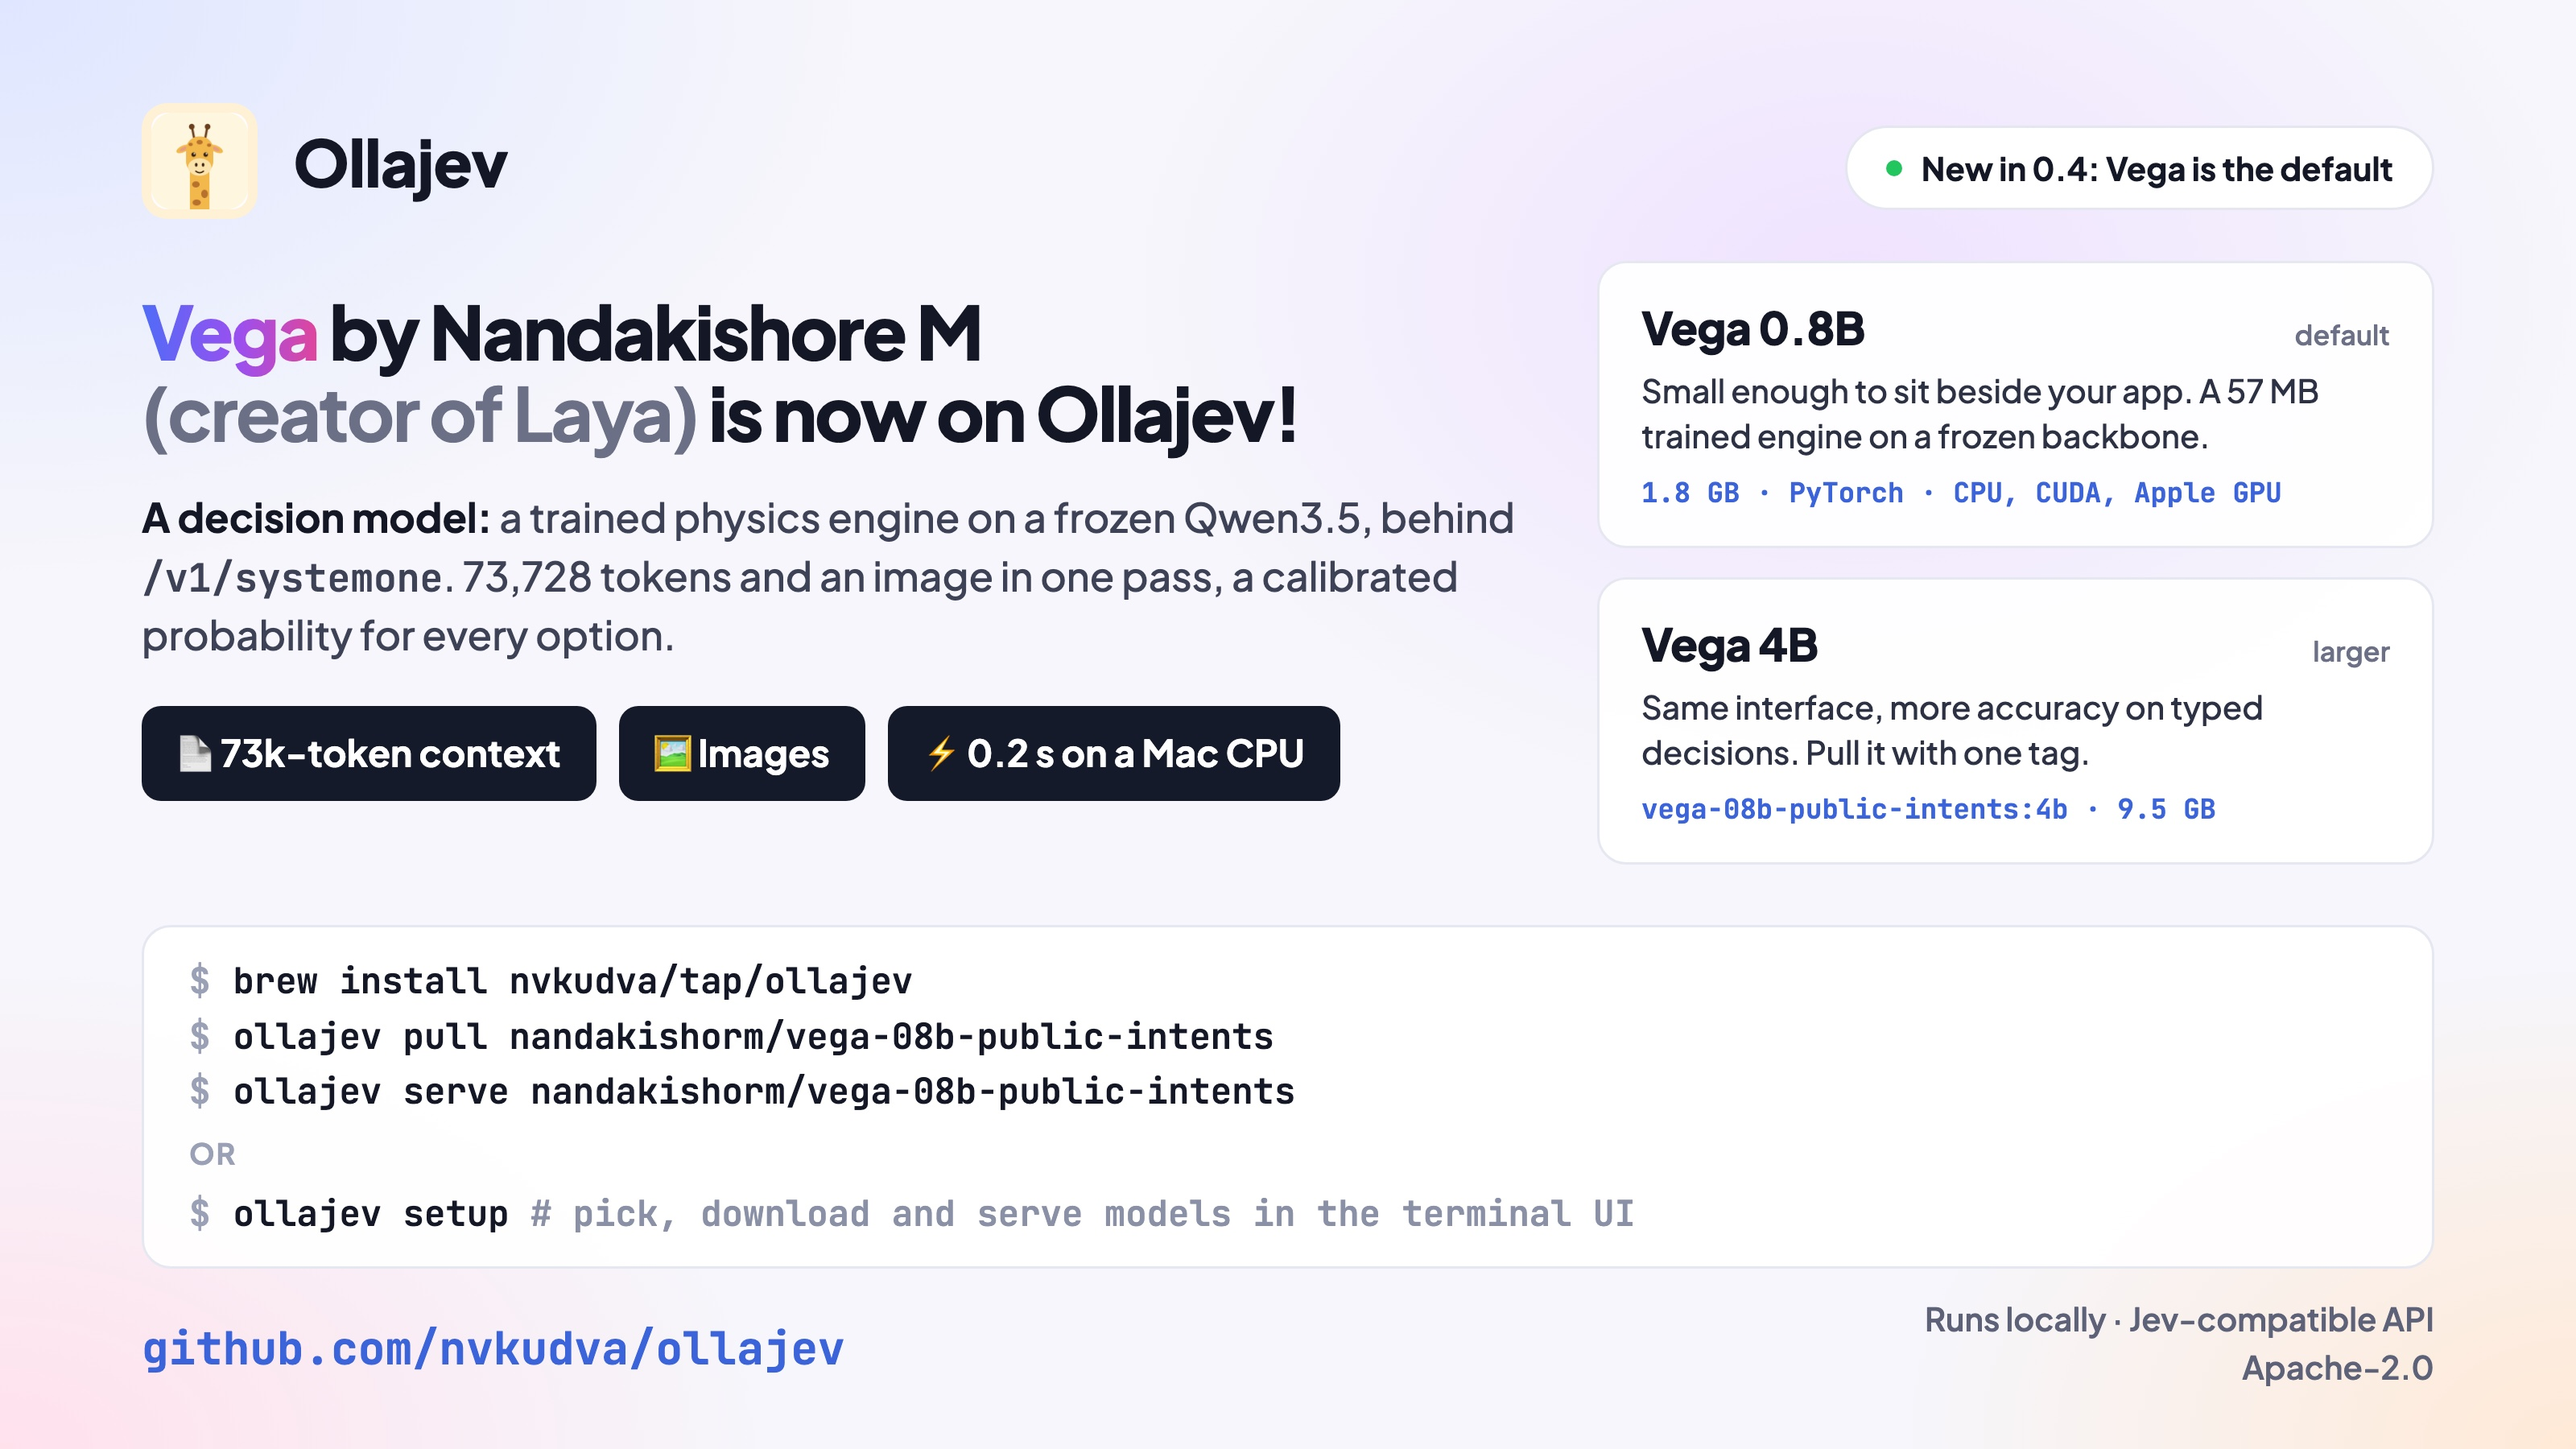
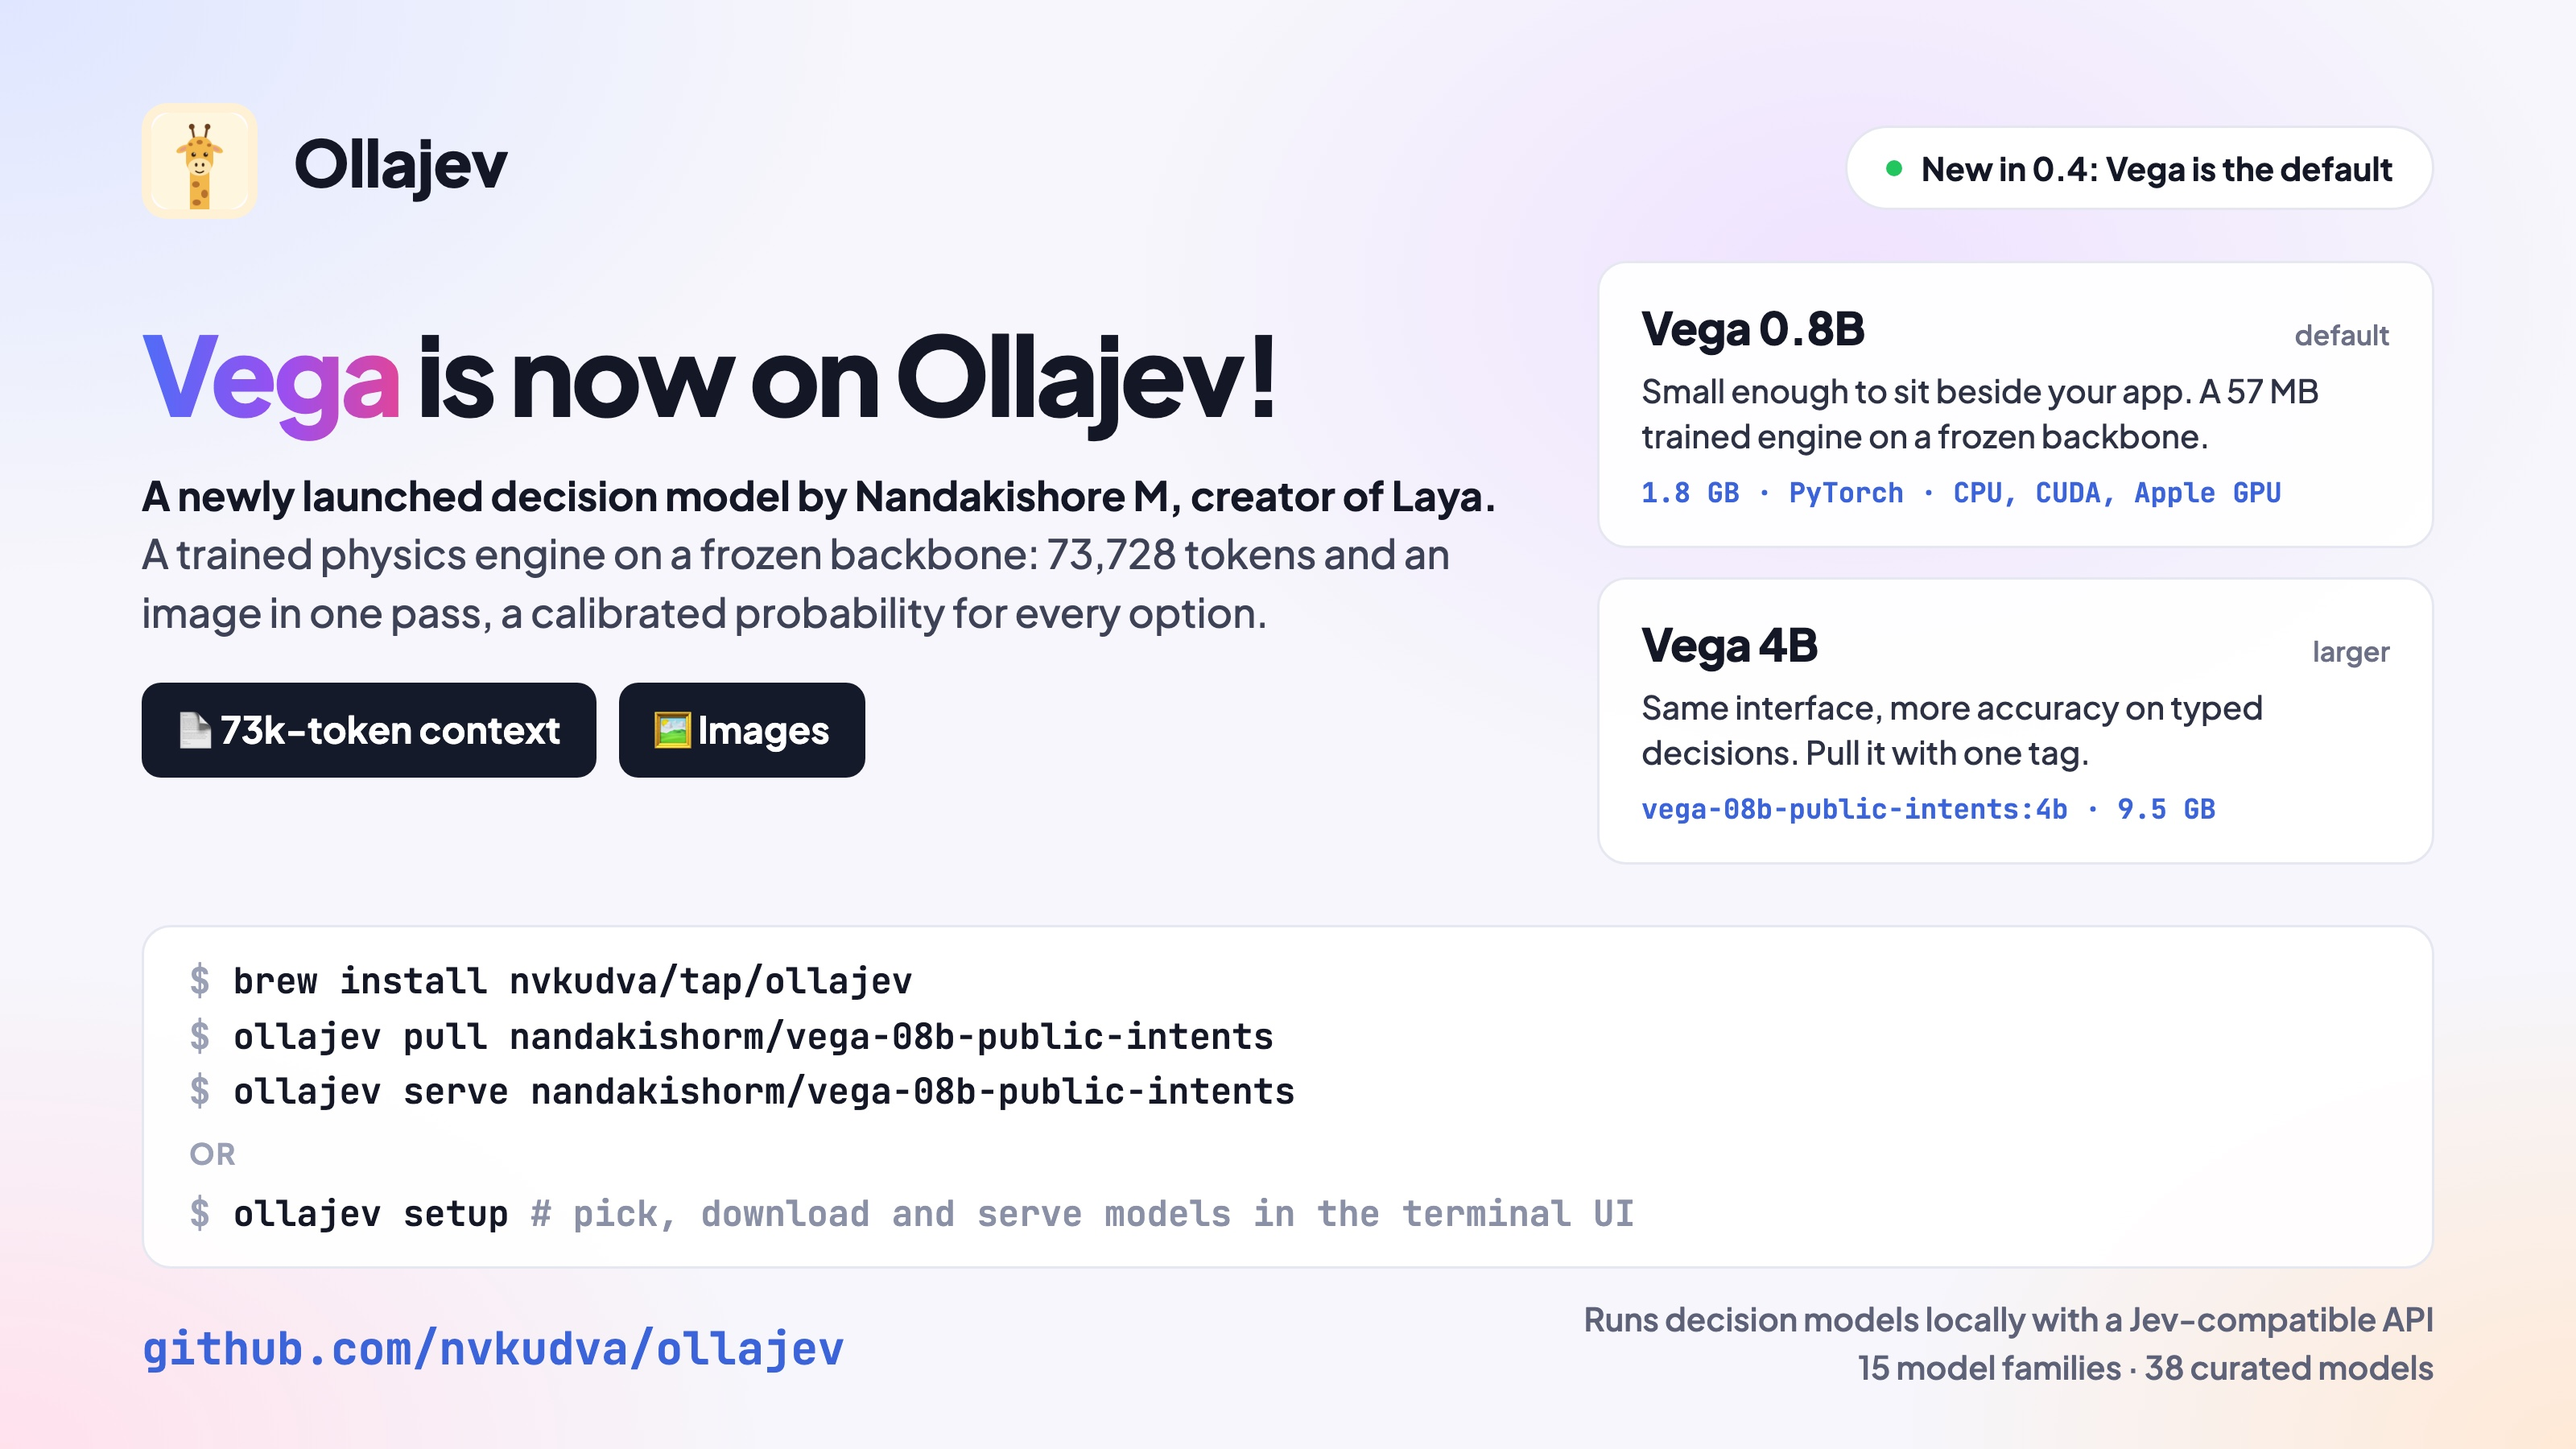
docs(poster): Vega is now on Ollajev; families and model counts
Claude-Session: https://claude.ai/code/session_0187pUTAZjCm4AQeWJKahLo7

Changed region(s): [[0.0312, 0.2178, 0.5938, 0.56], [0.625, 0.9022, 0.9375, 0.9644]]

diff --git a/docs/index.html b/docs/index.html
@@ -393,7 +393,7 @@ const SHOTS = {
   vega: {
     src: "vega-poster.jpg",
     width: 3200, height: 1800,
-    alt: "Vega by Nandakishore M (creator of Laya) is now on Ollajev! New in 0.4, Vega is the default: a decision model, a trained physics engine on a frozen Qwen3.5, 73,728 tokens and an image in one pass. Cards for Vega 0.8B (default, 1.8 GB) and Vega 4B (9.5 GB, the :4b tag), and the commands to start: brew install nvkudva/tap/ollajev, then ollajev pull and ollajev serve nandakishorm/vega-08b-public-intents, or ollajev setup to pick, download and serve models in the terminal UI.",
+    alt: "Vega is now on Ollajev! A newly launched decision model by Nandakishore M, creator of Laya: 73,728 tokens and an image in one pass. Cards for Vega 0.8B (default, 1.8 GB) and Vega 4B (9.5 GB), the commands to install, pull and serve it or run ollajev setup, and: runs decision models locally with a Jev-compatible API, 15 model families, 38 curated models.",
   },
   multimodal: {
     src: "multimodal-poster.jpg",

diff --git a/README.md b/README.md
@@ -7,7 +7,7 @@ Run System One decision models from Hugging Face on your machine, behind the sam
 
 <p align="center"><a href="https://nvkudva.github.io/ollajev/">Product page</a> · <a href="#install">Install</a> · <a href="#quick-start">Quick start</a> · <a href="#models">Models</a> · <a href="#api">API</a></p>
 
-<p align="center"><a href="https://nvkudva.github.io/ollajev/#new"><img src="https://raw.githubusercontent.com/nvkudva/ollajev/main/docs/vega-poster.jpg" alt="Vega, a decision model by Nandakishore M (creator of Laya), is now on Ollajev! Vega 0.8B is the new default and Vega 4B is one tag away. Install with brew install nvkudva/tap/ollajev, then ollajev pull and ollajev serve nandakishorm/vega-08b-public-intents, or ollajev setup" width="720"></a></p>
+<p align="center"><a href="https://nvkudva.github.io/ollajev/#new"><img src="https://raw.githubusercontent.com/nvkudva/ollajev/main/docs/vega-poster.jpg" alt="Vega is now on Ollajev! A newly launched decision model by Nandakishore M, creator of Laya. Install with brew install nvkudva/tap/ollajev, then ollajev pull and ollajev serve nandakishorm/vega-08b-public-intents, or ollajev setup" width="720"></a></p>
 
 > **New in 0.4:** [Vega](https://huggingface.co/nandakishorm/vega-08b-public-intents) is the default model: a
 > trained physics engine on a frozen Qwen3.5, in 0.8B (1.8 GB) and 4B (`:4b`, 9.5 GB) sizes, with a 73,728-token
